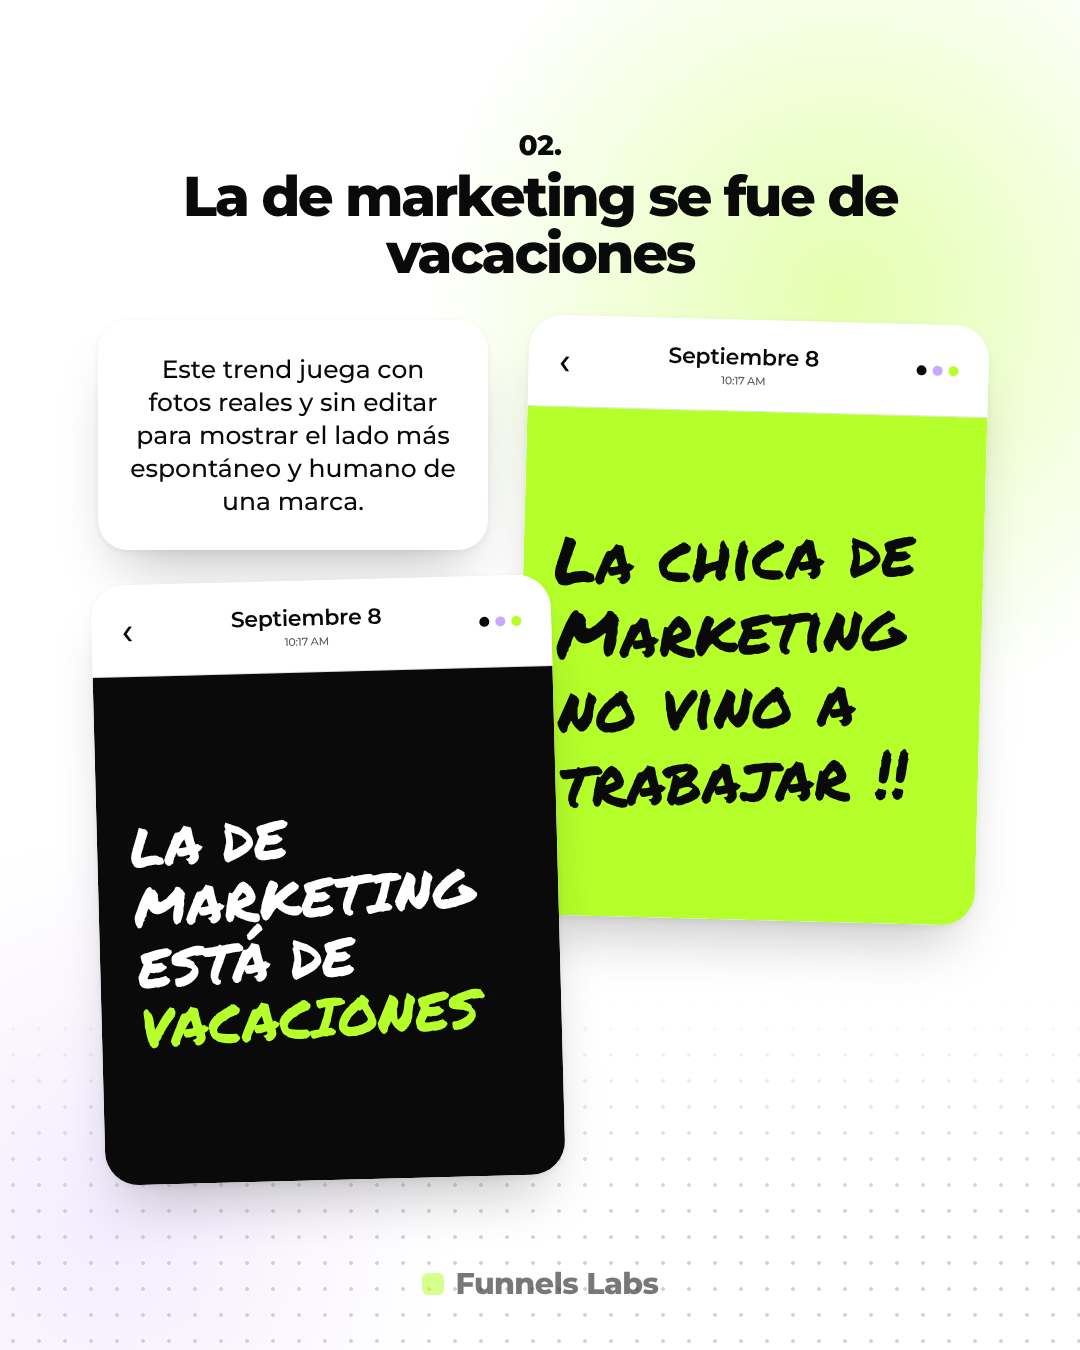
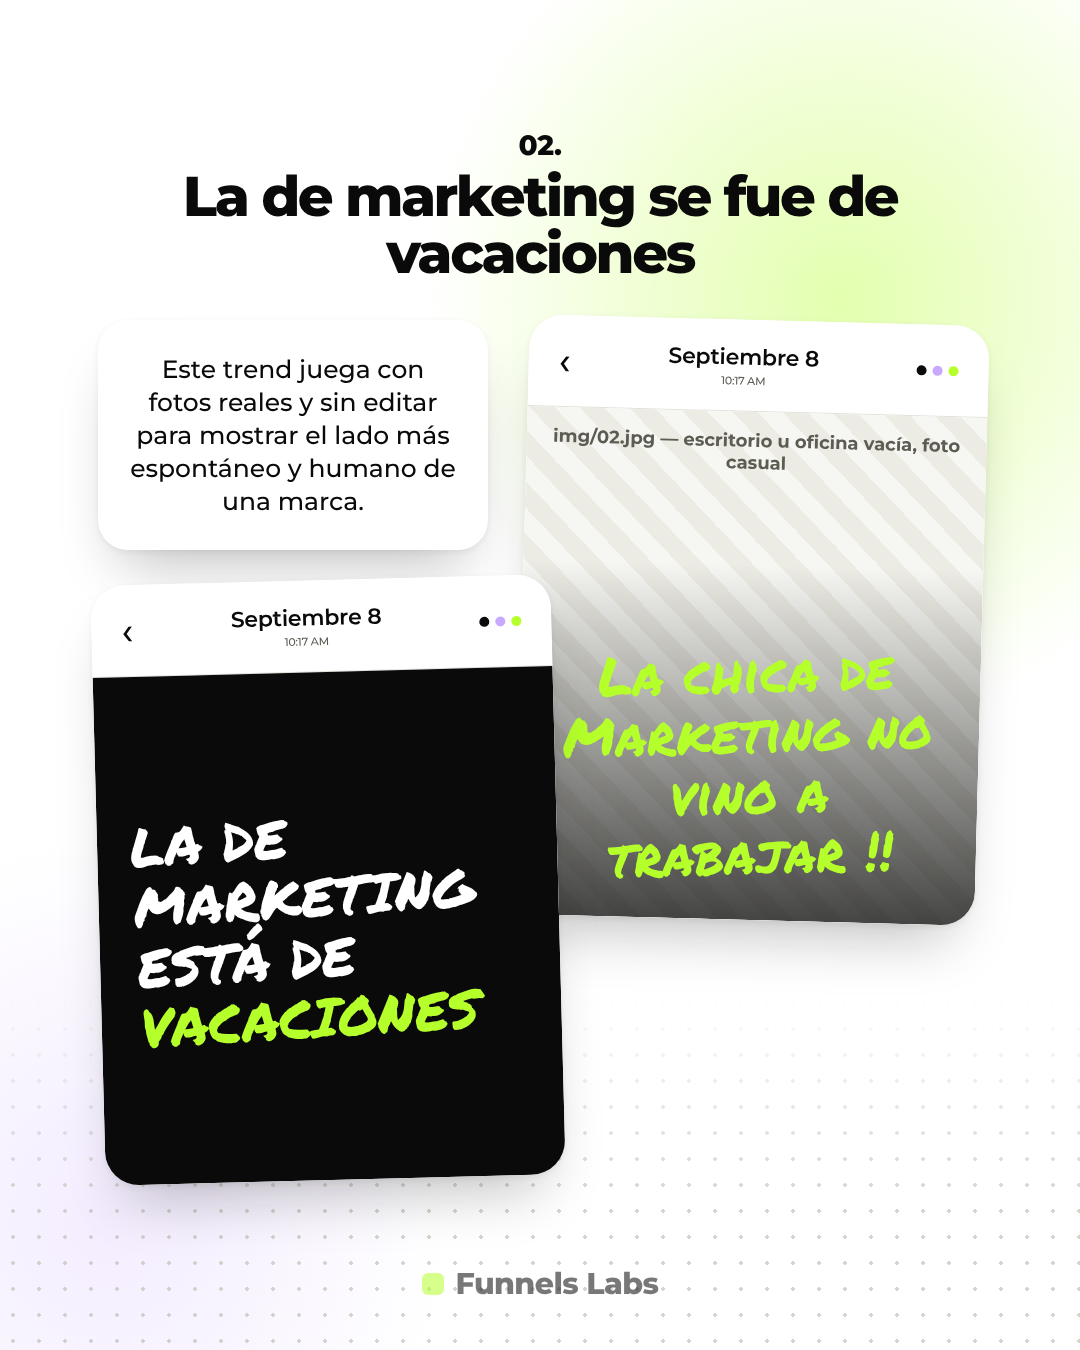
Carrusel trends: una pantalla con foto y otra de texto por slide
Claude-Session: https://claude.ai/code/session_018d4LXHkXweDJXxfN5x99dL

Changed region(s): [[0.4583, 0.28, 0.9167, 0.6844]]

diff --git a/.claude/skills/carruseles-funnels-labs/assets/plantilla-trends.html b/.claude/skills/carruseles-funnels-labs/assets/plantilla-trends.html
@@ -109,6 +109,17 @@
   .cta-box p { font-size: 32px; font-weight: 500; line-height: 1.35; color: #d8d8d0; }
   .cta-box p b { color: var(--lime); font-weight: 800; }
   .btn { display: inline-block; margin-top: 34px; background: var(--lime); color: var(--ink); font-weight: 800; font-size: 30px; padding: 22px 46px; border-radius: 99px; }
+
+  /* Pantalla con foto: "meme" = franja de texto arriba + foto; "overlay" = foto completa con texto encima */
+  .photo { padding: 0; }
+  .photo .band { flex: none; padding: 30px 32px 22px; position: relative; z-index: 1; }
+  .photo .pic { flex: 1; position: relative; overflow: hidden; }
+  .photo .pic img, .photo.overlay > img { position: absolute; inset: 0; width: 100%; height: 100%; object-fit: cover; }
+  .photo.overlay { justify-content: flex-end; }
+  .photo.overlay::before { content: ""; position: absolute; inset: 0; z-index: 1; background: linear-gradient(transparent 30%, rgba(10,10,10,.75)); }
+  .photo.overlay .cap { position: relative; z-index: 2; padding: 36px 32px; text-align: center; color: #fff; }
+  .missing { background: repeating-linear-gradient(45deg, #ecebe4 0 18px, #f6f6f2 18px 36px) !important; }
+  .missing::after { content: attr(data-foto); position: absolute; inset: 18px 12px auto 12px; text-align: center; font-size: 18px; font-weight: 700; color: var(--ink-faint); z-index: 3; }
 </style>
 </head>
 <body>
@@ -116,127 +127,100 @@
 <!-- 1. PORTADA -->
 <section class="slide cover">
   <div class="logo"><i></i>Funnels Labs</div>
-  <h1>Lo que está <em>rompiendo Instagram</em> este mes</h1>
+  <h1>Lo que está <em>rompiendo Instagram</em> esta semana</h1>
   <div class="arrow-pill">→</div>
 </section>
 
-<!-- 2. TREND 01 — Layout A -->
-<section class="slide glow-lime A">
+<!-- 2. TREND 01 — Layout B -->
+<section class="slide glow-lilac B">
   <div class="num">01.</div>
-  <div class="title">POV: te escriben a las 2 a.m.</div>
-  <div class="card note">Pones a tu audiencia dentro de una situación que vive todos los días.</div>
+  <div class="title">Sí, te perdono pero…</div>
+  <div class="card note" style="font-size:25px">La idea es mostrar diferentes opciones, precios o beneficios de tu oferta de una forma divertida y fácil de entender.</div>
   <div class="phone p1">
-    <header><span class="back">‹</span><span class="date">Octubre 6<small>10:17 AM</small></span><span class="dots"><b></b><b></b><b></b></span></header>
-    <div class="screen chat">
-      <div class="msg in">Hola, ¿tienen cita para mañana?<small>2:03 a.m.</small></div>
-      <div class="msg out">¡Hola! Sí, tengo 10:00 y 12:30. ¿Cuál te acomoda?<small>2:03 a.m.</small></div>
-      <div class="msg in">10:00 porfa<small>2:04 a.m.</small></div>
-      <div class="msg out">Listo, quedaste agendada ✓<small>2:04 a.m.</small></div>
+    <header><span class="back">‹</span><span class="date">Septiembre 7<small>10:17 AM</small></span><span class="dots"><b></b><b></b><b></b></span></header>
+    <div class="screen s-lime" style="justify-content:center;gap:18px">
+      <div class="big" style="font-size:62px;text-transform:uppercase">Sí, te perdono</div>
+      <div class="marker" style="font-size:44px">pero todo tiene un precio</div>
+      <!-- <img src="foto.png"> para poner la foto del meme -->
     </div>
   </div>
   <div class="phone p2">
-    <header><span class="back">‹</span><span class="date">Octubre 6<small>10:17 AM</small></span><span class="dots"><b></b><b></b><b></b></span></header>
-    <div class="screen s-black" style="justify-content:center;gap:22px">
-      <div class="marker" style="font-size:64px;color:var(--lime)">POV:</div>
-      <div class="big" style="color:#fff">Tu cliente te escribe a las 2 a.m.</div>
-      <div style="font-size:24px;font-weight:600;color:#bdbdb5">…y tu negocio le contesta.</div>
+    <header><span class="back">‹</span><span class="date">Septiembre 7<small>10:17 AM</small></span><span class="dots"><b></b><b></b><b></b></span></header>
+    <div class="screen s-lilac photo">
+      <div class="band" style="text-align:center"><div class="big" style="font-size:54px;text-transform:uppercase">Si te perdono</div>
+      <div style="font-size:30px;font-weight:600;font-style:italic">pero tiene <b style="font-weight:800">un precio</b></div></div>
+      <div class="pic" data-foto="img/01.jpg — hámster o mascota señalando"><img src="img/01.jpg" onerror="this.closest('[data-foto]').classList.add('missing');this.remove()"></div>
     </div>
   </div>
-  <div class="card why"><h4>Funciona para:</h4><ul><li>Mostrar tu producto en acción</li><li>Generar identificación</li><li>Comentarios tipo “literal yo”</li></ul></div>
+  <div class="card why"><h4>Funciona para:</h4><ul><li>Mostrar servicios</li><li>Destacar beneficios</li><li>Comunicar precios</li></ul></div>
   <div class="logo"><i></i>Funnels Labs</div>
 </section>
 
-<!-- 3. TREND 02 — Layout B -->
-<section class="slide glow-lilac B">
+<!-- 3. TREND 02 — Layout A -->
+<section class="slide glow-lime A">
   <div class="num">02.</div>
-  <div class="title">Lo que pides vs. lo que recibes</div>
-  <div class="card note">Contrasta dos escenarios para que tu oferta se entienda en un segundo.</div>
+  <div class="title" style="font-size:56px">La de marketing se fue de vacaciones</div>
+  <div class="card note" style="font-size:25px">Este trend juega con fotos reales y sin editar para mostrar el lado más espontáneo y humano de una marca.</div>
   <div class="phone p1">
-    <header><span class="back">‹</span><span class="date">Octubre 7<small>10:17 AM</small></span><span class="dots"><b></b><b></b><b></b></span></header>
-    <div class="screen s-lilac vs">
-      <div><span class="k">Lo que pides</span><span class="big">Más seguidores</span></div>
-      <div style="background:rgba(255,255,255,.35)"><span class="k">Lo que necesitas</span><span class="big">Más clientes</span></div>
+    <header><span class="back">‹</span><span class="date">Septiembre 8<small>10:17 AM</small></span><span class="dots"><b></b><b></b><b></b></span></header>
+    <div class="screen photo overlay" data-foto="img/02.jpg — escritorio u oficina vacía, foto casual">
+      <img src="img/02.jpg" onerror="this.closest('[data-foto]').classList.add('missing');this.remove()">
+      <div class="cap"><div class="marker" style="font-size:54px;color:var(--lime);transform:rotate(-3deg)">La chica de Marketing no vino a trabajar !!</div></div>
     </div>
   </div>
   <div class="phone p2">
-    <header><span class="back">‹</span><span class="date">Octubre 7<small>10:17 AM</small></span><span class="dots"><b></b><b></b><b></b></span></header>
-    <div class="screen s-lime vs">
-      <div><span class="k">Lo que pagas</span><span class="big" style="font-size:46px">Un agente de IA</span></div>
-      <div><span class="k">Lo que recibes</span><span class="big" style="font-size:46px">Respuestas 24/7 y agenda llena</span></div>
-    </div>
-  </div>
-  <div class="card why"><h4>Funciona para:</h4><ul><li>Comparar planes</li><li>Romper objeciones</li><li>Explicar tu diferencial</li></ul></div>
-  <div class="logo"><i></i>Funnels Labs</div>
-</section>
-
-<!-- 4. TREND 03 — Layout A -->
-<section class="slide glow-lime A">
-  <div class="num">03.</div>
-  <div class="title">Hecho a mano, sin editar</div>
-  <div class="card note">Textos o fotos sin producción. Se sienten reales y frenan el scroll.</div>
-  <div class="phone p1">
-    <header><span class="back">‹</span><span class="date">Octubre 8<small>10:17 AM</small></span><span class="dots"><b></b><b></b><b></b></span></header>
-    <div class="screen s-lime" style="justify-content:center">
-      <div class="marker" style="font-size:66px;transform:rotate(-3deg)">El de marketing se fue a comer!!</div>
-    </div>
-  </div>
-  <div class="phone p2">
-    <header><span class="back">‹</span><span class="date">Octubre 8<small>10:17 AM</small></span><span class="dots"><b></b><b></b><b></b></span></header>
-    <div class="screen s-paper" style="justify-content:center">
-      <div class="marker" style="font-size:62px;transform:rotate(-2deg)">Hoy no hay diseño.<br><span style="background:var(--lime);padding:0 8px">Hay resultados.</span></div>
-    </div>
-  </div>
-  <div class="card why"><h4>Funciona porque:</h4><ul><li>Humaniza la marca</li><li>Rompe la estética perfecta del feed</li></ul></div>
-  <div class="logo"><i></i>Funnels Labs</div>
-</section>
-
-<!-- 5. TREND 04 — Layout B -->
-<section class="slide glow-lilac B">
-  <div class="num">04.</div>
-  <div class="title">Nadie me preguntó, pero…</div>
-  <div class="card note">Un consejo que nadie pidió, dicho con confianza. Te posiciona sin sonar a clase.</div>
-  <div class="phone p1">
-    <header><span class="back">‹</span><span class="date">Octubre 9<small>10:17 AM</small></span><span class="dots"><b></b><b></b><b></b></span></header>
+    <header><span class="back">‹</span><span class="date">Septiembre 8<small>10:17 AM</small></span><span class="dots"><b></b><b></b><b></b></span></header>
     <div class="screen s-black" style="justify-content:center">
-      <div class="big" style="font-size:64px">Nadie me <span style="color:var(--lime)">preguntó,</span> pero…</div>
+      <div class="marker" style="font-size:54px;color:#fff;text-transform:uppercase;transform:rotate(-2deg)">La de marketing está de <span style="color:var(--lime)">vacaciones</span></div>
     </div>
   </div>
-  <div class="phone p2">
-    <header><span class="back">‹</span><span class="date">Octubre 9<small>10:17 AM</small></span><span class="dots"><b></b><b></b><b></b></span></header>
-    <div class="screen s-lilac" style="justify-content:center;gap:20px">
-      <div class="big" style="font-size:50px">…si tu lead espera tres horas, ya no es tu lead.</div>
-      <div style="font-size:22px;font-weight:600">Desliza para ver qué hacer →</div>
-    </div>
-  </div>
-  <div class="card why"><h4>Funciona porque:</h4><ul><li>Te posiciona como experto</li><li>Invita a debatir en comentarios</li></ul></div>
   <div class="logo"><i></i>Funnels Labs</div>
 </section>
 
-<!-- 6. TREND 05 — Layout A -->
-<section class="slide glow-lime A">
-  <div class="num">05.</div>
-  <div class="title">Alguien tiene que…</div>
-  <div class="card note">Convierte lo cotidiano de tu trabajo en algo digno de presumir.</div>
+<!-- 4. TREND 03 — Layout B -->
+<section class="slide glow-lilac B">
+  <div class="num">03.</div>
+  <div class="title">Me da pena pedirte…</div>
+  <div class="card note" style="font-size:25px">Un trend cute y juguetón para mostrar productos como ese antojito que “te da penita pedir”.</div>
   <div class="phone p1">
-    <header><span class="back">‹</span><span class="date">Octubre 10<small>10:17 AM</small></span><span class="dots"><b></b><b></b><b></b></span></header>
-    <div class="screen" style="background:#fff">
-      <div class="k" style="color:var(--violet);margin-bottom:10px">Un día en la clínica</div>
-      <ul class="tl">
-        <li><b>08:00</b>Las citas del día ya están confirmadas</li>
-        <li><b>13:00</b>Los seguimientos salieron solos</li>
-        <li><b>18:00</b>Nuevos leads, ya calificados</li>
-        <li><b>23:00</b>La IA sigue respondiendo</li>
-      </ul>
+    <header><span class="back">‹</span><span class="date">Septiembre 9<small>10:17 AM</small></span><span class="dots"><b></b><b></b><b></b></span></header>
+    <div class="screen s-lilac photo">
+      <div class="band"><div class="big" style="font-size:56px">Me da penita</div>
+      <div class="marker" style="font-size:44px;text-align:right">pedirte…</div></div>
+      <div class="pic" data-foto="img/03.jpg — perrito con cara de ternura"><img src="img/03.jpg" onerror="this.closest('[data-foto]').classList.add('missing');this.remove()"></div>
     </div>
   </div>
   <div class="phone p2">
-    <header><span class="back">‹</span><span class="date">Octubre 10<small>10:17 AM</small></span><span class="dots"><b></b><b></b><b></b></span></header>
-    <div class="screen s-dark" style="justify-content:center;text-align:center;gap:26px">
-      <div style="font-size:44px;font-weight:700;font-style:italic;line-height:1.1;letter-spacing:-0.03em">No todos podemos ser influencers.</div>
-      <div style="font-size:44px;font-weight:800;font-style:italic;line-height:1.1;letter-spacing:-0.03em;color:var(--lime)">Alguien tiene que contestar a las 11 p.m.</div>
+    <header><span class="back">‹</span><span class="date">Septiembre 9<small>10:17 AM</small></span><span class="dots"><b></b><b></b><b></b></span></header>
+    <div class="screen s-paper" style="justify-content:center;text-align:center">
+      <div class="big" style="font-size:60px">Me da <span style="background:var(--lime);padding:0 8px;border-radius:8px">vergüenza</span> pedirte…</div>
     </div>
   </div>
-  <div class="card why"><h4>Funciona porque:</h4><ul><li>Acerca la marca</li><li>Muestra el proceso real</li></ul></div>
+  <div class="card why"><h4>Funciona porque:</h4><ul><li>Humaniza la marca</li><li>Conecta con situaciones cotidianas</li></ul></div>
+  <div class="logo"><i></i>Funnels Labs</div>
+</section>
+
+<!-- 5. TREND 04 — Layout A -->
+<section class="slide glow-lime A">
+  <div class="num">04.</div>
+  <div class="title">Alguien tiene que</div>
+  <div class="card note">Porque convierte lo cotidiano en algo digno de presumir.</div>
+  <div class="phone p1">
+    <header><span class="back">‹</span><span class="date">Septiembre 10<small>10:17 AM</small></span><span class="dots"><b></b><b></b><b></b></span></header>
+    <div class="screen photo overlay" data-foto="img/04.jpg — persona trabajando: clínica, facial, obra">
+      <img src="img/04.jpg" onerror="this.closest('[data-foto]').classList.add('missing');this.remove()">
+      <div class="cap"><div style="font-size:36px;font-weight:700;font-style:italic;line-height:1.1;letter-spacing:-0.03em">It can't always be Pinterest and mood boards.</div>
+      <div style="font-size:36px;font-weight:800;font-style:italic;line-height:1.1;letter-spacing:-0.03em;color:var(--lime);margin-top:14px">Someone's gotta hold it down on site.</div></div>
+    </div>
+  </div>
+  <div class="phone p2">
+    <header><span class="back">‹</span><span class="date">Septiembre 10<small>10:17 AM</small></span><span class="dots"><b></b><b></b><b></b></span></header>
+    <div class="screen s-dark" style="justify-content:center;text-align:center;gap:24px">
+      <div style="font-size:42px;font-weight:700;font-style:italic;line-height:1.1;letter-spacing:-0.03em">We can't all be doctors and lawyers.</div>
+      <div style="font-size:42px;font-weight:800;font-style:italic;line-height:1.1;letter-spacing:-0.03em;color:var(--lime)">Someone's gotta keep the girlies skin clear.</div>
+    </div>
+  </div>
+  <div class="card note why">Hace que tu marca/negocio se sienta más real y cercano.</div>
   <div class="logo"><i></i>Funnels Labs</div>
 </section>
 

diff --git a/carruseles/trends-instagram/carrusel.html b/carruseles/trends-instagram/carrusel.html
@@ -109,6 +109,17 @@
   .cta-box p { font-size: 32px; font-weight: 500; line-height: 1.35; color: #d8d8d0; }
   .cta-box p b { color: var(--lime); font-weight: 800; }
   .btn { display: inline-block; margin-top: 34px; background: var(--lime); color: var(--ink); font-weight: 800; font-size: 30px; padding: 22px 46px; border-radius: 99px; }
+
+  /* Pantalla con foto: "meme" = franja de texto arriba + foto; "overlay" = foto completa con texto encima */
+  .photo { padding: 0; }
+  .photo .band { flex: none; padding: 30px 32px 22px; position: relative; z-index: 1; }
+  .photo .pic { flex: 1; position: relative; overflow: hidden; }
+  .photo .pic img, .photo.overlay > img { position: absolute; inset: 0; width: 100%; height: 100%; object-fit: cover; }
+  .photo.overlay { justify-content: flex-end; }
+  .photo.overlay::before { content: ""; position: absolute; inset: 0; z-index: 1; background: linear-gradient(transparent 30%, rgba(10,10,10,.75)); }
+  .photo.overlay .cap { position: relative; z-index: 2; padding: 36px 32px; text-align: center; color: #fff; }
+  .missing { background: repeating-linear-gradient(45deg, #ecebe4 0 18px, #f6f6f2 18px 36px) !important; }
+  .missing::after { content: attr(data-foto); position: absolute; inset: 18px 12px auto 12px; text-align: center; font-size: 18px; font-weight: 700; color: var(--ink-faint); z-index: 3; }
 </style>
 </head>
 <body>
@@ -135,9 +146,10 @@
   </div>
   <div class="phone p2">
     <header><span class="back">‹</span><span class="date">Septiembre 7<small>10:17 AM</small></span><span class="dots"><b></b><b></b><b></b></span></header>
-    <div class="screen s-lilac" style="justify-content:center;text-align:center;gap:10px">
-      <div class="big" style="font-size:60px;text-transform:uppercase">Si te perdono</div>
-      <div style="font-size:34px;font-weight:600;font-style:italic">pero tiene <b style="font-weight:800">un precio</b></div>
+    <div class="screen s-lilac photo">
+      <div class="band" style="text-align:center"><div class="big" style="font-size:54px;text-transform:uppercase">Si te perdono</div>
+      <div style="font-size:30px;font-weight:600;font-style:italic">pero tiene <b style="font-weight:800">un precio</b></div></div>
+      <div class="pic" data-foto="img/01.jpg — hámster o mascota señalando"><img src="img/01.jpg" onerror="this.closest('[data-foto]').classList.add('missing');this.remove()"></div>
     </div>
   </div>
   <div class="card why"><h4>Funciona para:</h4><ul><li>Mostrar servicios</li><li>Destacar beneficios</li><li>Comunicar precios</li></ul></div>
@@ -151,8 +163,9 @@
   <div class="card note" style="font-size:25px">Este trend juega con fotos reales y sin editar para mostrar el lado más espontáneo y humano de una marca.</div>
   <div class="phone p1">
     <header><span class="back">‹</span><span class="date">Septiembre 8<small>10:17 AM</small></span><span class="dots"><b></b><b></b><b></b></span></header>
-    <div class="screen s-lime" style="justify-content:center">
-      <div class="marker" style="font-size:66px;transform:rotate(-3deg)">La chica de Marketing no vino a trabajar !!</div>
+    <div class="screen photo overlay" data-foto="img/02.jpg — escritorio u oficina vacía, foto casual">
+      <img src="img/02.jpg" onerror="this.closest('[data-foto]').classList.add('missing');this.remove()">
+      <div class="cap"><div class="marker" style="font-size:54px;color:var(--lime);transform:rotate(-3deg)">La chica de Marketing no vino a trabajar !!</div></div>
     </div>
   </div>
   <div class="phone p2">
@@ -171,9 +184,10 @@
   <div class="card note" style="font-size:25px">Un trend cute y juguetón para mostrar productos como ese antojito que “te da penita pedir”.</div>
   <div class="phone p1">
     <header><span class="back">‹</span><span class="date">Septiembre 9<small>10:17 AM</small></span><span class="dots"><b></b><b></b><b></b></span></header>
-    <div class="screen s-lilac" style="justify-content:center">
-      <div class="big" style="font-size:66px">Me da penita</div>
-      <div class="marker" style="font-size:50px;align-self:flex-end;margin:8px 10px 0 0">pedirte…</div>
+    <div class="screen s-lilac photo">
+      <div class="band"><div class="big" style="font-size:56px">Me da penita</div>
+      <div class="marker" style="font-size:44px;text-align:right">pedirte…</div></div>
+      <div class="pic" data-foto="img/03.jpg — perrito con cara de ternura"><img src="img/03.jpg" onerror="this.closest('[data-foto]').classList.add('missing');this.remove()"></div>
     </div>
   </div>
   <div class="phone p2">
@@ -193,9 +207,10 @@
   <div class="card note">Porque convierte lo cotidiano en algo digno de presumir.</div>
   <div class="phone p1">
     <header><span class="back">‹</span><span class="date">Septiembre 10<small>10:17 AM</small></span><span class="dots"><b></b><b></b><b></b></span></header>
-    <div class="screen s-dark" style="justify-content:center;text-align:center;gap:24px">
-      <div style="font-size:42px;font-weight:700;font-style:italic;line-height:1.1;letter-spacing:-0.03em">It can't always be Pinterest and mood boards.</div>
-      <div style="font-size:42px;font-weight:800;font-style:italic;line-height:1.1;letter-spacing:-0.03em;color:var(--lime)">Someone's gotta hold it down on site.</div>
+    <div class="screen photo overlay" data-foto="img/04.jpg — persona trabajando: clínica, facial, obra">
+      <img src="img/04.jpg" onerror="this.closest('[data-foto]').classList.add('missing');this.remove()">
+      <div class="cap"><div style="font-size:36px;font-weight:700;font-style:italic;line-height:1.1;letter-spacing:-0.03em">It can't always be Pinterest and mood boards.</div>
+      <div style="font-size:36px;font-weight:800;font-style:italic;line-height:1.1;letter-spacing:-0.03em;color:var(--lime);margin-top:14px">Someone's gotta hold it down on site.</div></div>
     </div>
   </div>
   <div class="phone p2">

diff --git a/.claude/skills/carruseles-funnels-labs/references/estilo-trends.md b/.claude/skills/carruseles-funnels-labs/references/estilo-trends.md
@@ -33,6 +33,15 @@ Alterna los layouts `A` y `B` (espejo) y los fondos `glow-lime` /
 - **Capturas reales**: pon `<img src="captura.png">` dentro de `.screen`
   y se ajusta sola (object-fit: cover). Prefiere capturas reales de
   clientes cuando las haya.
+- **Fotos (humanizar)**: en cada slide, **una pantalla con foto y otra solo
+  de texto**. Dos variantes: `.screen.photo` con `.band` (franja de texto
+  arriba, tipo meme) + `.pic` con `<img>`; o `.screen.photo.overlay`
+  (foto completa con el texto encima sobre degradado oscuro). Las fotos van
+  en `carruseles/<slug>/img/NN.jpg`; si falta una, la pantalla muestra
+  rayas y el nombre del archivo esperado (`data-foto`). Prioridad: fotos
+  reales del equipo o clientes > mascotas/personas con expresión >
+  stock genérico. Pide las fotos al usuario o descárgalas de
+  Unsplash/Pexels (licencia libre) si la red lo permite.
 - `.card.note` y `.card.why` — tarjetas blancas con sombra suave.
 
 ## Reglas extra sobre `marca.md`

diff --git a/carruseles/trends-instagram/img/LEEME.md b/carruseles/trends-instagram/img/LEEME.md
@@ -1,0 +1,9 @@
+Pon aquí las fotos (JPG o PNG, vertical, mínimo 900 px de alto):
+
+- 01.jpg — "Sí, te perdono…": hámster, mono o mascota señalando / con cara de reclamo
+- 02.jpg — "La de marketing…": escritorio vacío, laptop sola, oficina sin gente (foto casual)
+- 03.jpg — "Me da pena pedirte…": perrito con cara de ternura
+- 04.jpg — "Alguien tiene que": persona trabajando de verdad (facial en clínica, obra, cocina)
+
+Lo más humano: fotos reales de su equipo o clientes. Si no, Unsplash o Pexels (licencia libre).
+Después: node .claude/skills/carruseles-funnels-labs/scripts/render.cjs carruseles/trends-instagram/carrusel.html
